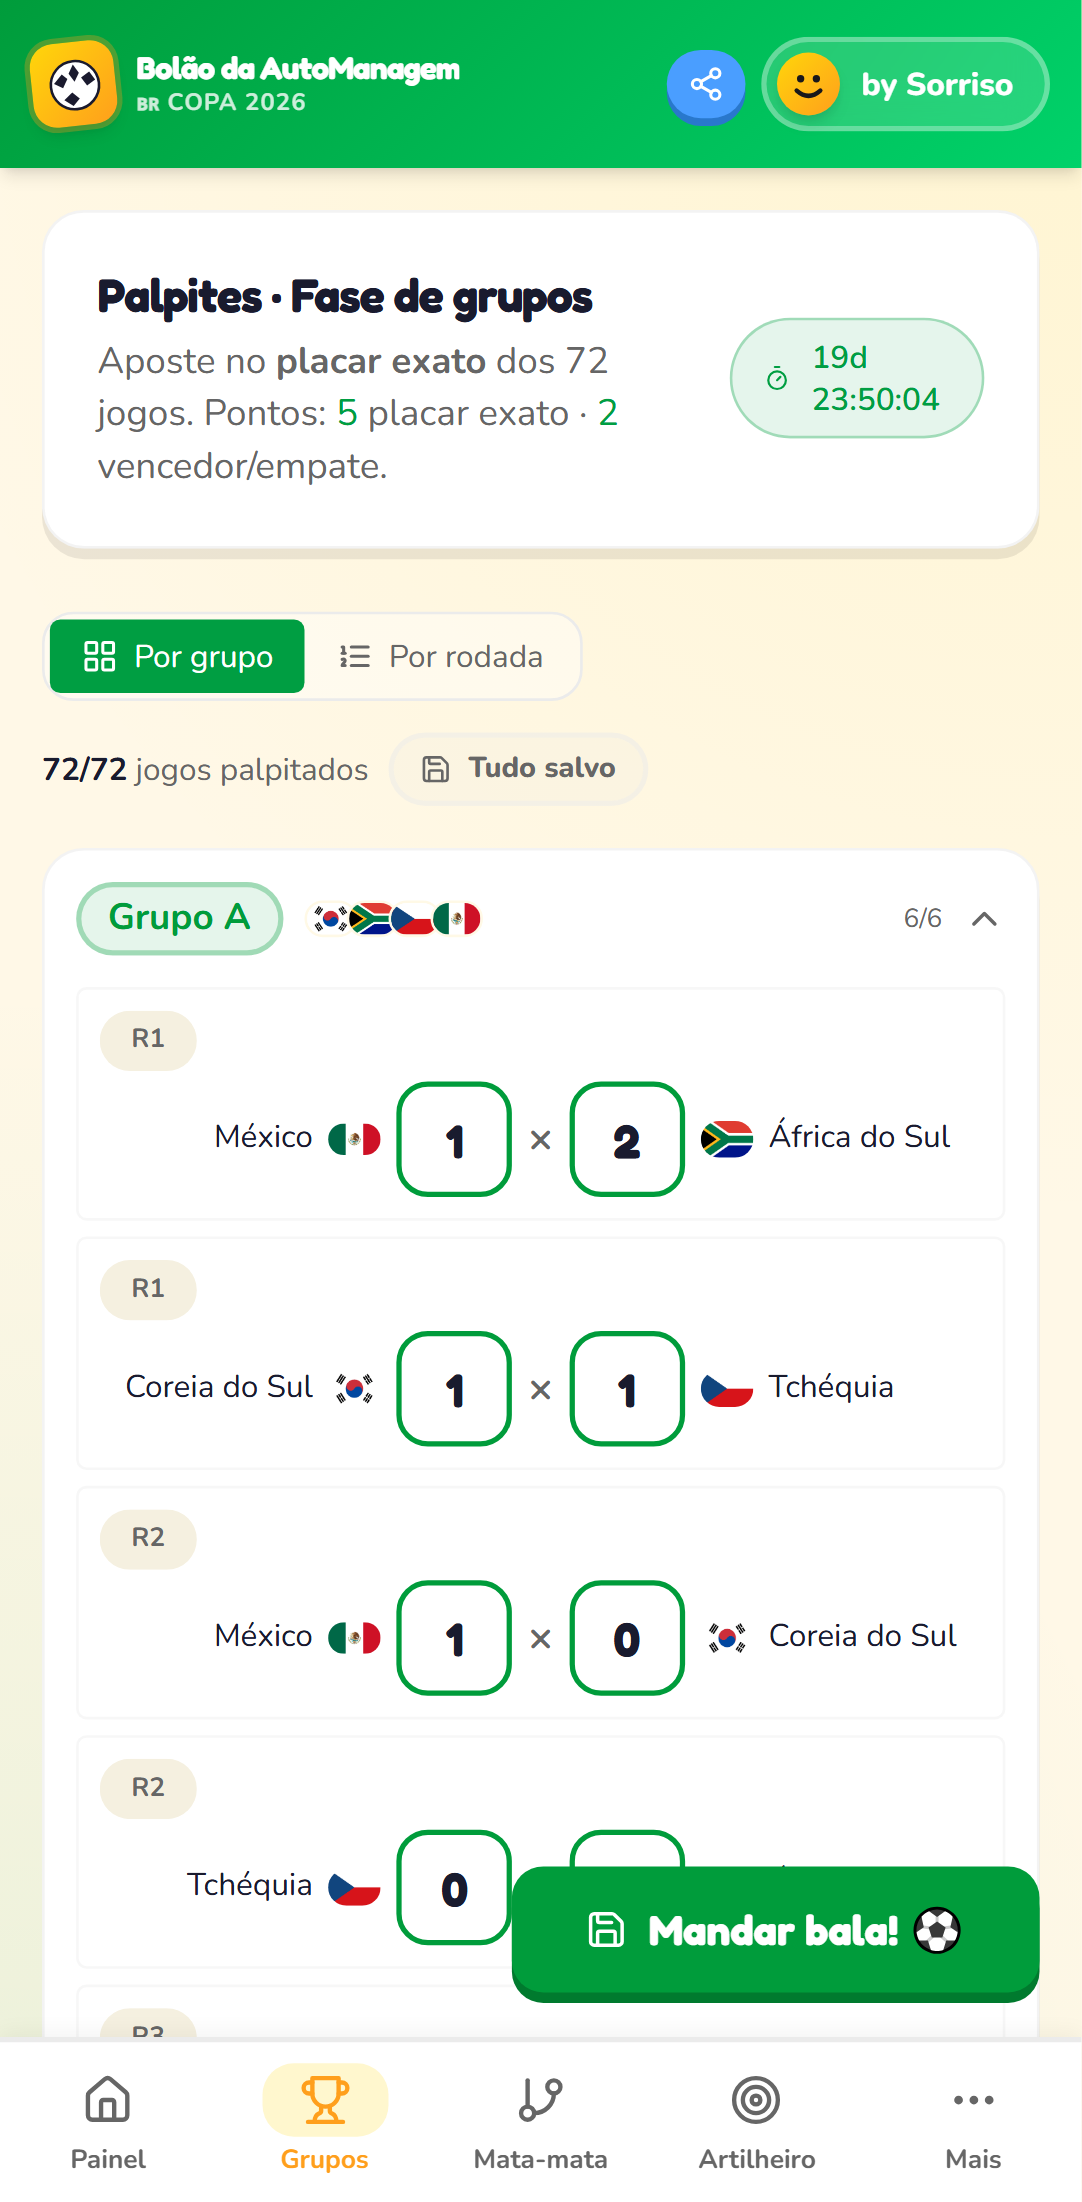
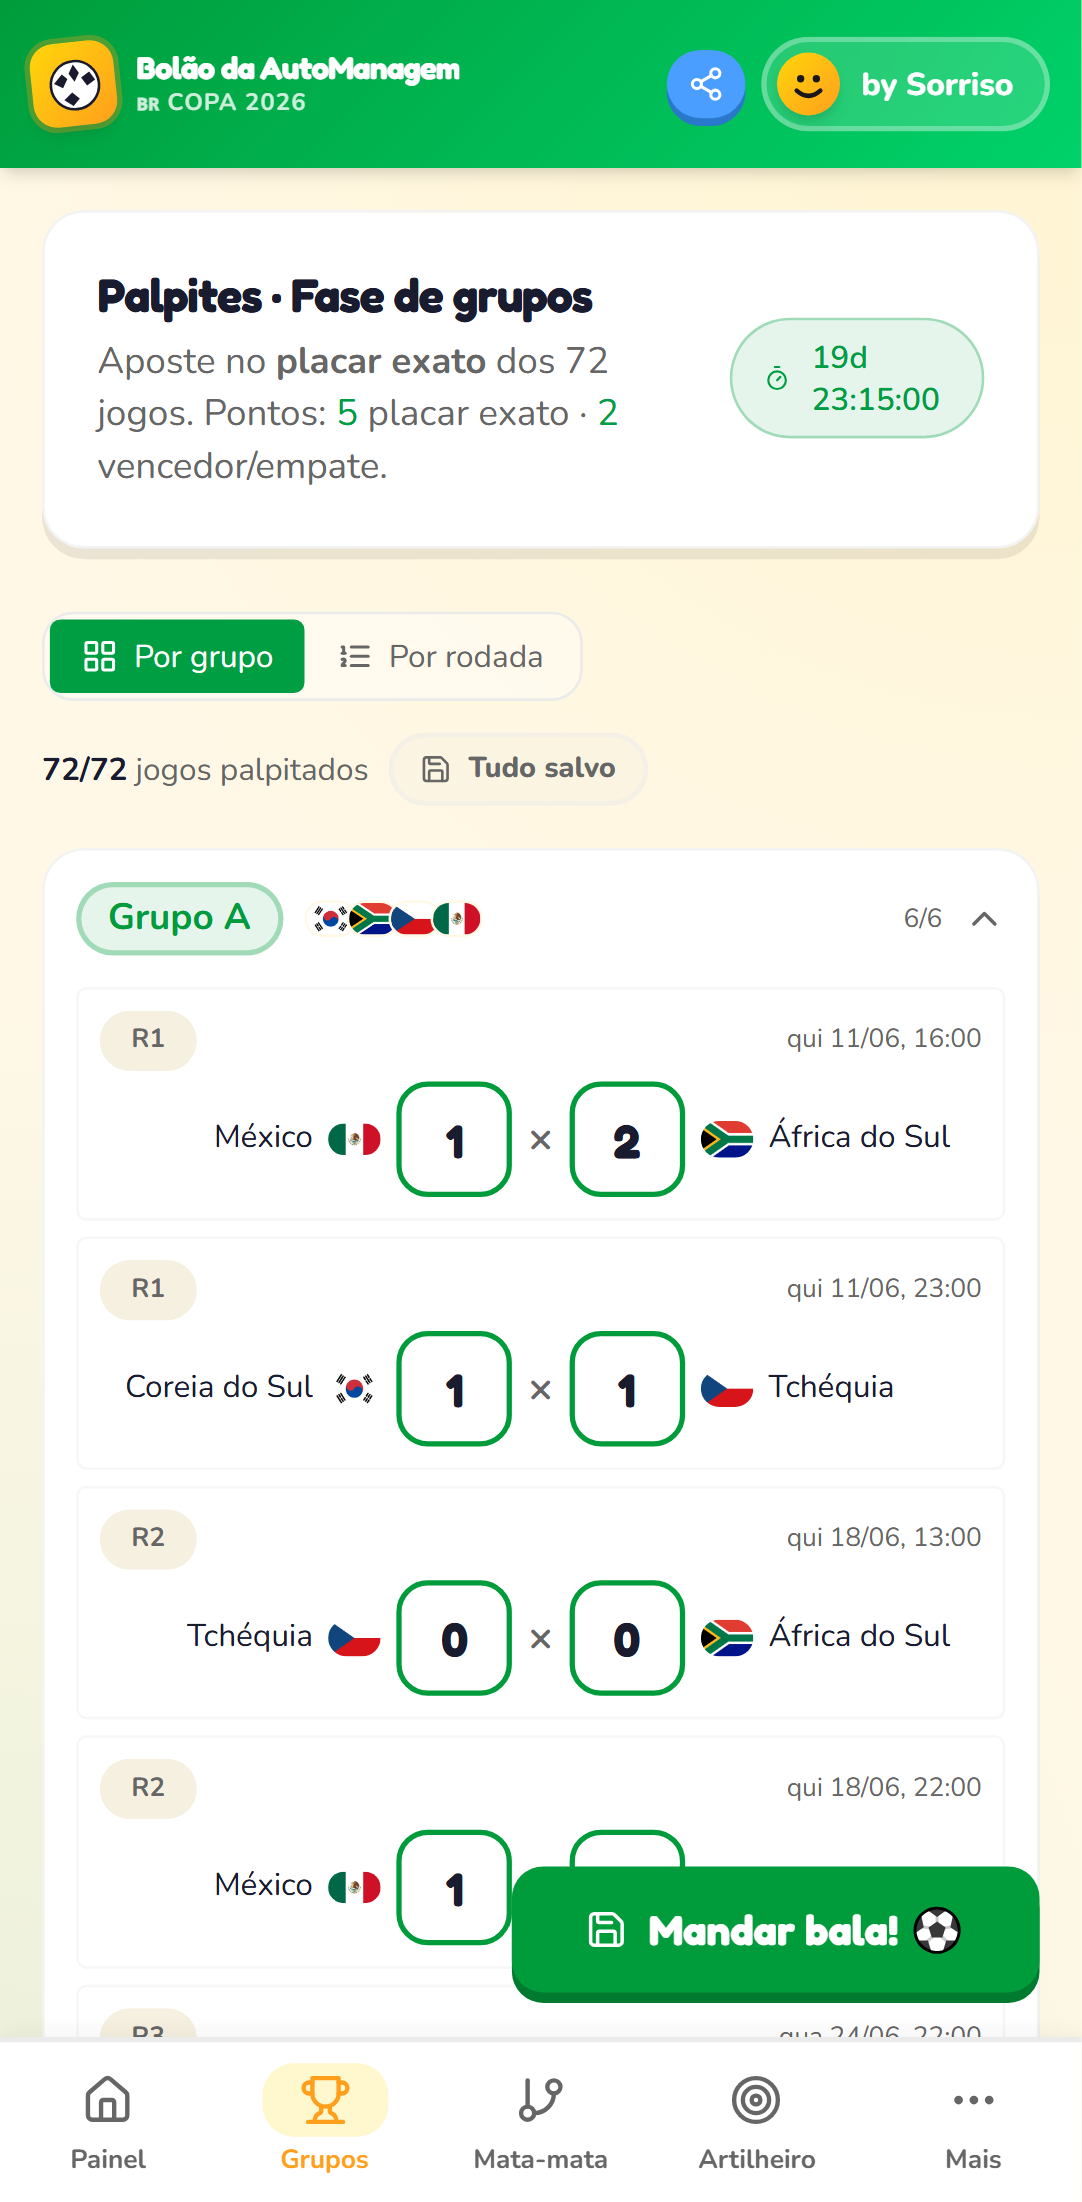
fix(qw6): guia "Como usar" — 3 bugs (cards tampados, limite 30, passo artilheiro)
Correcoes reportadas pelo Fernando no guia /como-usar.html:

1. Cards do indice tampados pelo banner: o header.hero e position:
   relative e pintava por cima dos cards (que sobem com margin-top
   negativo). Adicionado position: relative + z-index ao .indice →
   os cards voltam a aparecer inteiros, flutuando sobre o header.

2. Limite de 30 vagas ainda aparecia: o TEXTO da dica ja tinha sido
   trocado, mas o PRINT 01-cadastro.png fora capturado antes da troca
   do subtitulo do /cadastro. Re-capturado o print (agora mostra "Bora
   participar do bolao dos amigos!"). Mantida a mensagem de que so
   quem pagou aparece no ranking.

3. Faltava passo do artilheiro: adicionado 5o passo "Apostar no
   artilheiro" (cor dourada) entre mata-mata e verificar, com print
   real da tela (/palpites/artilheiro) + instrucoes + dica (vale 24
   pts). Indice (5 cards), Resumao (5 chips) e subtitulo ("Em 5
   passos") atualizados. Grid do indice -> 5 colunas.

Bonus: re-capturado 02-grupos.png pra mostrar as datas reativadas.

Verificado via Playwright (desktop + mobile): indice nao mais cortado,
5 passos, prints atualizados.

diff --git a/public/como-usar.html b/public/como-usar.html
@@ -68,10 +68,15 @@
   /* ───── Índice ───── */
   .indice {
     display: grid;
-    grid-template-columns: repeat(4, 1fr);
+    grid-template-columns: repeat(5, 1fr);
     gap: 12px;
     margin-top: -32px;
     margin-bottom: 40px;
+    /* z-index: o header.hero é position:relative e pintaria por cima
+       dos cards (que sobem com margin-top negativo). Posicionar o
+       índice acima resolve o "card tampado pelo banner". */
+    position: relative;
+    z-index: 2;
   }
   .indice a {
     background: white;
@@ -211,7 +216,7 @@
 <header class="hero">
   <span class="badge">🇧🇷 Copa do Mundo FIFA 2026</span>
   <h1>Como usar o Bolão da AutoManagem</h1>
-  <p>Em 4 passos rápidos você cria sua conta, manda os palpites e acompanha sua posição no ranking. Bora! ⚽</p>
+  <p>Em 5 passos rápidos você cria sua conta, manda os palpites e acompanha sua posição no ranking. Bora! ⚽</p>
 </header>
 
 <div class="wrap">
@@ -221,7 +226,8 @@
     <a href="#passo1" style="--c: var(--green)"><span class="n">1</span><span class="t">Criar conta</span><span class="s">Entre no bolão</span></a>
     <a href="#passo2" style="--c: var(--blue)"><span class="n">2</span><span class="t">Colocar resultados</span><span class="s">72 jogos de grupo</span></a>
     <a href="#passo3" style="--c: var(--orange)"><span class="n">3</span><span class="t">Apostar no mata-mata</span><span class="s">Monte o chaveamento</span></a>
-    <a href="#passo4" style="--c: var(--purple)"><span class="n">4</span><span class="t">Verificar apostas</span><span class="s">Pontos e ranking</span></a>
+    <a href="#passo4" style="--c: var(--gold-deep)"><span class="n">4</span><span class="t">Apostar no artilheiro</span><span class="s">O goleador da Copa</span></a>
+    <a href="#passo5" style="--c: var(--purple)"><span class="n">5</span><span class="t">Verificar apostas</span><span class="s">Pontos e ranking</span></a>
   </nav>
 
   <!-- Passo 1 -->
@@ -294,9 +300,32 @@
   </section>
 
   <!-- Passo 4 -->
-  <section class="passo" id="passo4" style="--c: var(--purple)">
+  <section class="passo" id="passo4" style="--c: var(--gold-deep)">
     <div class="passo-head">
       <div class="n">4</div>
+      <div><h2>🟡 Apostar no artilheiro</h2><div class="tag">O goleador da Copa</div></div>
+    </div>
+    <div class="passo-body">
+      <div class="instr">
+        <ol>
+          <li>No menu de baixo, toque em <strong>Artilheiro</strong>.</li>
+          <li>Use a <strong>busca</strong> pra achar o jogador que você acha que vai ser o <strong>goleador</strong> da Copa.</li>
+          <li>Toque no nome pra escolher — aparece <strong>"Seu palpite de artilheiro"</strong> no topo.</li>
+          <li>Pra trocar, é só escolher outro (ou tocar no ✕ pra limpar). Salva sozinho.</li>
+        </ol>
+        <div class="dica">💡 <b>Vale 24 pts</b> no ranking se você acertar o artilheiro. Dá pra escolher 1 jogador só — capricha no palpite!</div>
+      </div>
+      <div class="phone-wrap">
+        <div class="phone"><img src="/guia/05-artilheiro.png" alt="Tela de palpite de artilheiro" loading="lazy" /></div>
+        <p class="phone-cap">Palpite · Artilheiro da Copa</p>
+      </div>
+    </div>
+  </section>
+
+  <!-- Passo 5 -->
+  <section class="passo" id="passo5" style="--c: var(--purple)">
+    <div class="passo-head">
+      <div class="n">5</div>
       <div><h2>🟣 Verificar apostas</h2><div class="tag">Pontos, ranking e export</div></div>
     </div>
     <div class="passo-body">
@@ -326,7 +355,9 @@
       <span class="arrow">→</span>
       <span class="chip"><span class="dot" style="background: var(--orange)">3</span> Apostar no mata-mata</span>
       <span class="arrow">→</span>
-      <span class="chip"><span class="dot" style="background: var(--purple)">4</span> Verificar apostas</span>
+      <span class="chip"><span class="dot" style="background: var(--gold-deep)">4</span> Apostar no artilheiro</span>
+      <span class="arrow">→</span>
+      <span class="chip"><span class="dot" style="background: var(--purple)">5</span> Verificar apostas</span>
     </div>
   </section>
 
